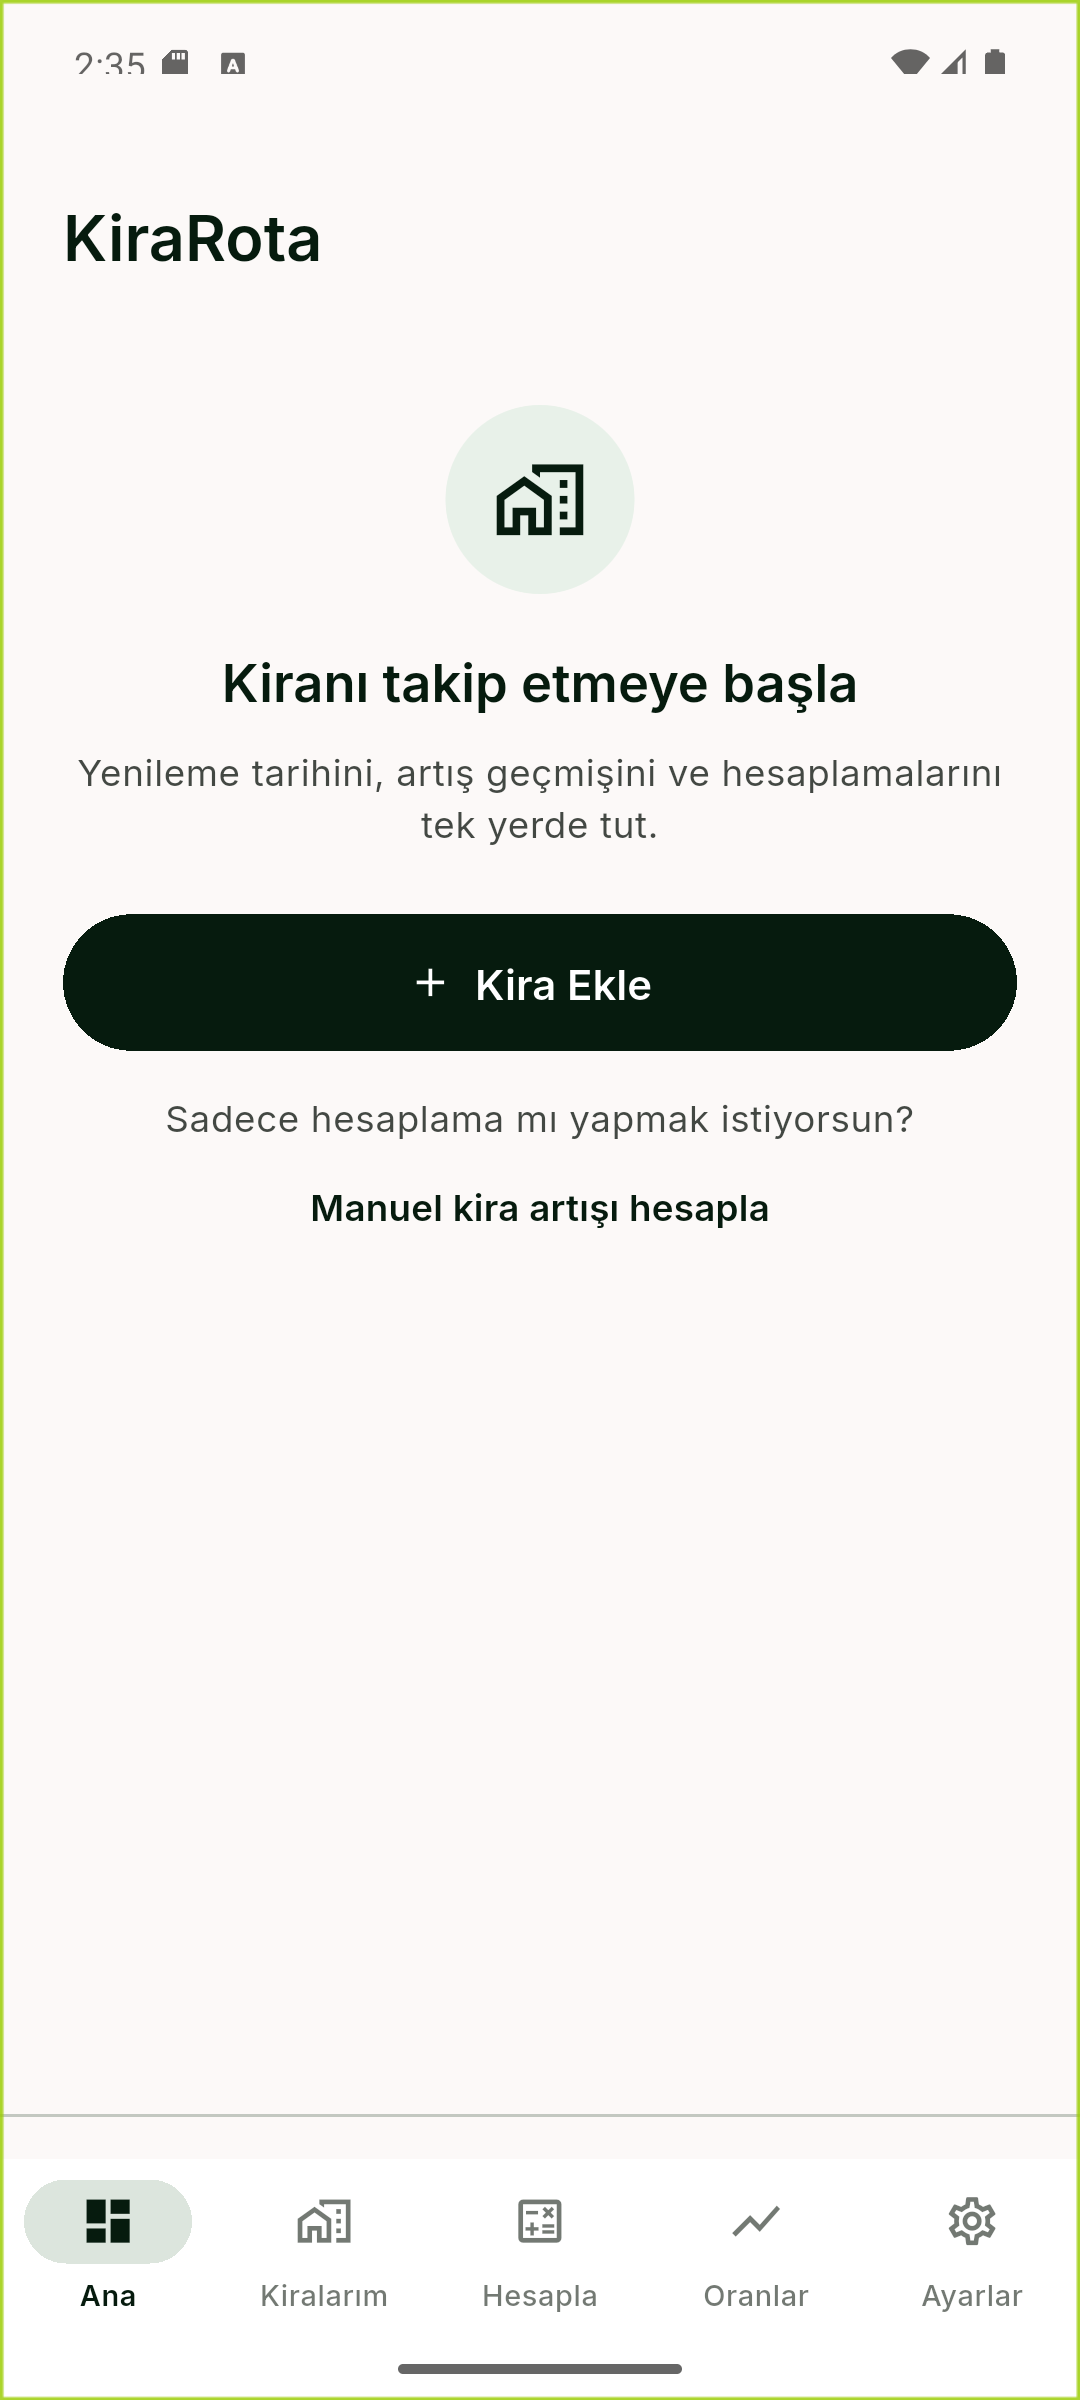
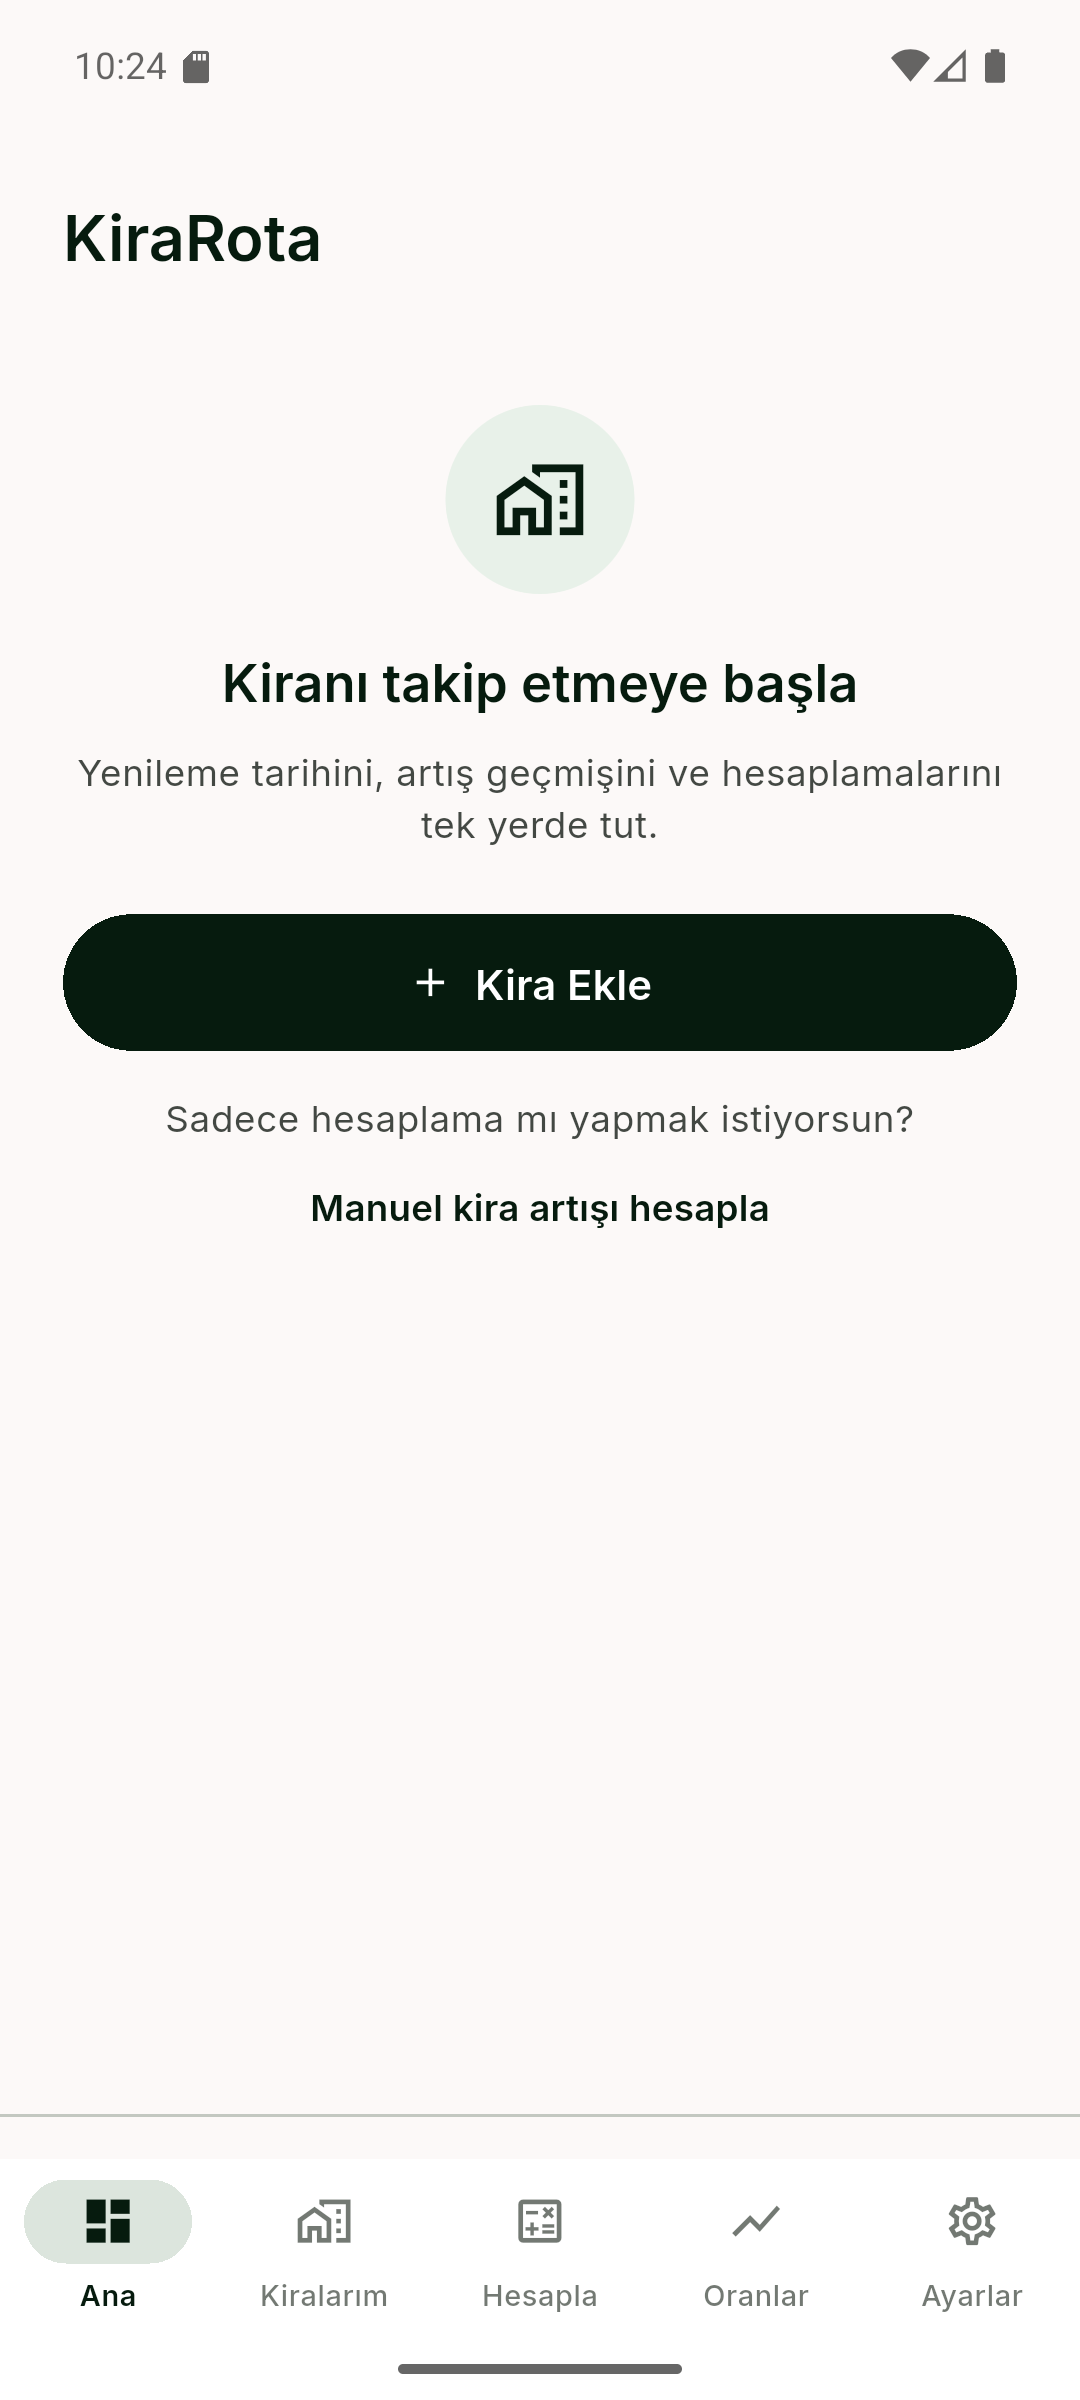
Fix dashboard page title branding and rebuild v1.1.0+10 artifacts.
Locks Ana-tab header as KiraRota (nav label stays Ana), refreshes home screenshots, and regenerates signed APK/AAB hashes. Also keeps Review Access cancel dispose fix.

Changed region(s): [[0.9778, 0.0, 1.0, 1.0], [0.0, 0.0, 0.0306, 1.0], [0.0611, 0.0, 0.2444, 0.0312]]

diff --git a/lib/ui/screens/settings_screen.dart b/lib/ui/screens/settings_screen.dart
@@ -52,11 +52,6 @@ class _SettingsScreenState extends ConsumerState<SettingsScreen> {
   }
 
   Future<void> _showReviewAccessSheet() async {
-    final reviewOn = ref.read(reviewAccessEnabledProvider);
-    final controller = TextEditingController();
-    var errorText = '';
-    var busy = false;
-
     await showModalBottomSheet<void>(
       context: context,
       isScrollControlled: true,
@@ -64,109 +59,8 @@ class _SettingsScreenState extends ConsumerState<SettingsScreen> {
       shape: const RoundedRectangleBorder(
         borderRadius: BorderRadius.vertical(top: Radius.circular(20)),
       ),
-      builder: (ctx) {
-        return StatefulBuilder(
-          builder: (ctx, setLocal) {
-            return ReviewAccessSheetScaffold(
-              child: Column(
-                mainAxisSize: MainAxisSize.min,
-                crossAxisAlignment: CrossAxisAlignment.stretch,
-                children: [
-                  Text(
-                    'İnceleme erişimi',
-                    style: Theme.of(ctx).textTheme.headlineSmall,
-                  ),
-                  const SizedBox(height: 12),
-                  if (reviewOn) ...[
-                    Text(
-                      'İnceleme erişimi bu cihazda açık.',
-                      style: Theme.of(ctx).textTheme.bodyMedium,
-                    ),
-                    const SizedBox(height: 12),
-                    OutlinedButton(
-                      onPressed: busy
-                          ? null
-                          : () async {
-                              setLocal(() => busy = true);
-                              await ref
-                                  .read(reviewAccessEnabledProvider.notifier)
-                                  .disable();
-                              if (ctx.mounted) Navigator.pop(ctx);
-                            },
-                      child: const Text('İnceleme erişimini kapat'),
-                    ),
-                    const SizedBox(height: 8),
-                    TextButton(
-                      onPressed: () => Navigator.pop(ctx),
-                      child: const Text('İptal'),
-                    ),
-                  ] else ...[
-                    TextField(
-                      controller: controller,
-                      obscureText: true,
-                      autocorrect: false,
-                      enableSuggestions: false,
-                      decoration: InputDecoration(
-                        labelText: 'Kod',
-                        errorText: errorText.isEmpty ? null : errorText,
-                      ),
-                      onSubmitted: (_) async {
-                        if (busy) return;
-                        setLocal(() {
-                          busy = true;
-                          errorText = '';
-                        });
-                        final ok = await ref
-                            .read(reviewAccessEnabledProvider.notifier)
-                            .unlockWithCode(controller.text);
-                        if (!ctx.mounted) return;
-                        if (ok) {
-                          Navigator.pop(ctx);
-                        } else {
-                          setLocal(() {
-                            busy = false;
-                            errorText = 'Kod geçersiz';
-                          });
-                        }
-                      },
-                    ),
-                    const SizedBox(height: 16),
-                    FilledButton(
-                      onPressed: busy
-                          ? null
-                          : () async {
-                              setLocal(() {
-                                busy = true;
-                                errorText = '';
-                              });
-                              final ok = await ref
-                                  .read(reviewAccessEnabledProvider.notifier)
-                                  .unlockWithCode(controller.text);
-                              if (!ctx.mounted) return;
-                              if (ok) {
-                                Navigator.pop(ctx);
-                              } else {
-                                setLocal(() {
-                                  busy = false;
-                                  errorText = 'Kod geçersiz';
-                                });
-                              }
-                            },
-                      child: const Text('Doğrula'),
-                    ),
-                    TextButton(
-                      onPressed: () => Navigator.pop(ctx),
-                      child: const Text('İptal'),
-                    ),
-                  ],
-                ],
-              ),
-            );
-          },
-        );
-      },
+      builder: (ctx) => const _ReviewAccessSheetBody(),
     );
-    controller.dispose();
   }
 
   @override
@@ -498,6 +392,118 @@ class _SettingsTile extends StatelessWidget {
         ],
       ),
       onTap: onTap,
+    );
+  }
+}
+
+/// Review Access sheet — controller sheet State’inde dispose edilir
+/// (route kapanınca erken dispose → `_dependents.isEmpty` assertion’ını önler).
+class _ReviewAccessSheetBody extends ConsumerStatefulWidget {
+  const _ReviewAccessSheetBody();
+
+  @override
+  ConsumerState<_ReviewAccessSheetBody> createState() =>
+      _ReviewAccessSheetBodyState();
+}
+
+class _ReviewAccessSheetBodyState
+    extends ConsumerState<_ReviewAccessSheetBody> {
+  late final TextEditingController _controller;
+  String _errorText = '';
+  bool _busy = false;
+
+  @override
+  void initState() {
+    super.initState();
+    _controller = TextEditingController();
+  }
+
+  @override
+  void dispose() {
+    _controller.dispose();
+    super.dispose();
+  }
+
+  Future<void> _submit() async {
+    if (_busy) return;
+    setState(() {
+      _busy = true;
+      _errorText = '';
+    });
+    final ok = await ref
+        .read(reviewAccessEnabledProvider.notifier)
+        .unlockWithCode(_controller.text);
+    if (!mounted) return;
+    if (ok) {
+      Navigator.pop(context);
+    } else {
+      setState(() {
+        _busy = false;
+        _errorText = 'Kod geçersiz';
+      });
+    }
+  }
+
+  @override
+  Widget build(BuildContext context) {
+    final reviewOn = ref.watch(reviewAccessEnabledProvider);
+    return ReviewAccessSheetScaffold(
+      child: Column(
+        mainAxisSize: MainAxisSize.min,
+        crossAxisAlignment: CrossAxisAlignment.stretch,
+        children: [
+          Text(
+            'İnceleme erişimi',
+            style: Theme.of(context).textTheme.headlineSmall,
+          ),
+          const SizedBox(height: 12),
+          if (reviewOn) ...[
+            Text(
+              'İnceleme erişimi bu cihazda açık.',
+              style: Theme.of(context).textTheme.bodyMedium,
+            ),
+            const SizedBox(height: 12),
+            OutlinedButton(
+              onPressed: _busy
+                  ? null
+                  : () async {
+                      setState(() => _busy = true);
+                      await ref
+                          .read(reviewAccessEnabledProvider.notifier)
+                          .disable();
+                      if (mounted) Navigator.pop(context);
+                    },
+              child: const Text('İnceleme erişimini kapat'),
+            ),
+            const SizedBox(height: 8),
+            TextButton(
+              onPressed: () => Navigator.pop(context),
+              child: const Text('İptal'),
+            ),
+          ] else ...[
+            TextField(
+              controller: _controller,
+              obscureText: true,
+              autocorrect: false,
+              enableSuggestions: false,
+              decoration: InputDecoration(
+                labelText: 'Kod',
+                errorText: _errorText.isEmpty ? null : _errorText,
+              ),
+              onSubmitted: (_) => _submit(),
+            ),
+            const SizedBox(height: 16),
+            FilledButton(
+              onPressed: _busy ? null : _submit,
+              child: const Text('Doğrula'),
+            ),
+            TextButton(
+              onPressed: () => Navigator.pop(context),
+              child: const Text('İptal'),
+            ),
+          ],
+        ],
+      ),
     );
   }
 }

diff --git a/test/app_flow_test.dart b/test/app_flow_test.dart
@@ -133,7 +133,25 @@ void main() {
 
     expect(find.text('Başla'), findsNothing);
     expect(find.text('Kiranı takip etmeye başla'), findsOneWidget);
-    expect(find.text('Ana'), findsOneWidget);
+    expect(find.byKey(const Key('dashboard_page_title')), findsOneWidget);
+    expect(
+      (tester.widget<Text>(find.byKey(const Key('dashboard_page_title')))).data,
+      'KiraRota',
+    );
+    expect(
+      find.descendant(
+        of: find.byType(NavigationBar),
+        matching: find.text('Ana'),
+      ),
+      findsOneWidget,
+    );
+    expect(
+      find.descendant(
+        of: find.byType(NavigationBar),
+        matching: find.text('Kiralarım'),
+      ),
+      findsOneWidget,
+    );
 
     final prefs = await SharedPreferences.getInstance();
     await tester.pumpWidget(_app(prefs));
@@ -393,6 +411,27 @@ void main() {
     expect(find.text('Gizlilik Politikası'), findsWidgets);
     expect(find.textContaining('#'), findsNothing);
     expect(find.textContaining('**'), findsNothing);
+  });
+
+  testWidgets('Review Access İptal — controller dispose crash yok', (
+    tester,
+  ) async {
+    await _pumpApp(tester, home: const Scaffold(body: SettingsScreen()));
+    await _waitFor(tester, find.textContaining('Tyreest Studio'));
+
+    final version = find.textContaining('Tyreest Studio');
+    for (var i = 0; i < 7; i++) {
+      await tester.tap(version);
+      await tester.pump(const Duration(milliseconds: 50));
+    }
+    await tester.pumpAndSettle();
+    expect(find.text('İnceleme erişimi'), findsOneWidget);
+    expect(find.text('İptal'), findsOneWidget);
+
+    await tester.tap(find.text('İptal'));
+    await tester.pumpAndSettle();
+    expect(find.text('İnceleme erişimi'), findsNothing);
+    expect(tester.takeException(), isNull);
   });
 
   testWidgets('Pro aktif görünümü Ayarlar', (tester) async {

diff --git a/lib/ui/screens/home_dashboard_screen.dart b/lib/ui/screens/home_dashboard_screen.dart
@@ -52,7 +52,11 @@ class HomeDashboardScreen extends ConsumerWidget {
           children: [
             const Icon(Icons.home_work_outlined, color: AppColors.primary),
             const SizedBox(width: 8),
-            Text('KiraRota', style: Theme.of(context).textTheme.headlineLarge),
+            Text(
+              'KiraRota',
+              key: const Key('dashboard_page_title'),
+              style: Theme.of(context).textTheme.headlineLarge,
+            ),
           ],
         ),
         const SizedBox(height: 16),
@@ -368,7 +372,11 @@ class _EmptyHome extends StatelessWidget {
     return ListView(
       padding: const EdgeInsets.fromLTRB(24, 24, 24, 24),
       children: [
-        Text('KiraRota', style: Theme.of(context).textTheme.headlineLarge),
+        Text(
+          'KiraRota',
+          key: const Key('dashboard_page_title'),
+          style: Theme.of(context).textTheme.headlineLarge,
+        ),
         const SizedBox(height: 48),
         Center(
           child: Container(

diff --git a/docs/FINAL_KIRAROTA_IMPLEMENTATION_REPORT.md b/docs/FINAL_KIRAROTA_IMPLEMENTATION_REPORT.md
@@ -21,7 +21,7 @@ KiraRota görünür marka olarak uygulandı (Android label, UI, paywall, PDF/sha
 
 ## Dashboard
 
-Gerçek rental verisinden özet, yaklaşan yenilemeler, son işlemler, hızlı işlemler. Empty state: “Kiranı takip etmeye başla” + manuel hesaplama kaçış yolu.
+Üst sayfa başlığı **KiraRota** (nav etiketi **Ana** ayrı kalır). Gerçek rental verisinden özet, yaklaşan yenilemeler, son işlemler, hızlı işlemler. Empty state: “Kiranı takip etmeye başla” + manuel hesaplama kaçış yolu. RC micro-fix: `dashboard_page_title` key + regression.
 
 ## Rentals
 
@@ -114,13 +114,17 @@ Kritik crash/overflow yok (smoke penceresi).
 ## APK
 
 `build/app/outputs/flutter-apk/app-release.apk` (64.2 MB)  
[2 lines of base64/hex data omitted]
 
 ## AAB
 
-`build/app/outputs/bundle/release/app-release.aab` (64.0 MB)  
[1 lines of base64/hex data omitted]
+`build/app/outputs/bundle/release/app-release.aab` (64.1 MB)  
[1 lines of base64/hex data omitted]
 AdMob production IDs present · Google test publisher absent · review plaintext absent · minify/shrink enabled · mapping present
+
+## RC micro-fix (v1.1.0+10 rebuild)
+
+Dashboard üst başlık **KiraRota** / alt nav **Ana** doğrulandı; `01_home.png` + `02_home_empty.png` yenilendi; aynı versionCode 10 ile APK/AAB yeniden üretildi. Play’e yüklemeye hazır: **YES**.
 
 ## Remaining Notes
 

diff --git a/docs/qa/SCREENSHOT_INDEX.md b/docs/qa/SCREENSHOT_INDEX.md
@@ -6,8 +6,8 @@ Folder: `docs/qa/final_screenshots/`
 
 | Filename | Route / state | Test data | Edge-to-edge | Status |
 |---|---|---|---|---|
-| `01_home.png` | Ana · seeded dashboard | Beşiktaş · Daire 4, 38.000 TL, 12 gün | Status + gesture bar visible; content above nav | PASS |
-| `02_home_empty.png` | Ana · empty | `SCREENSHOT_MODE=empty` | Empty CTA above bottom nav | PASS |
+| `01_home.png` | Ana · seeded dashboard | Beşiktaş · Daire 4, 38.000 TL, 12 gün · üst başlık **KiraRota**, alt nav **Ana** | Status + gesture bar visible; content above nav | PASS |
+| `02_home_empty.png` | Ana · empty | `SCREENSHOT_MODE=empty` · üst **KiraRota**, alt **Ana** | Empty CTA above bottom nav | PASS |
 | `03_rentals.png` | Kiralarım | 1 aktif kira, filtreler | Nav + system inset OK | PASS |
 | `04_rental_detail.png` | Kira Detayı | Seed rental + history | AppBar/status OK; CTA clear | PASS |
 | `05_rental_add.png` | Kira Ekle | Empty form | Keyboard not open; bottom CTA area clear | PASS |
